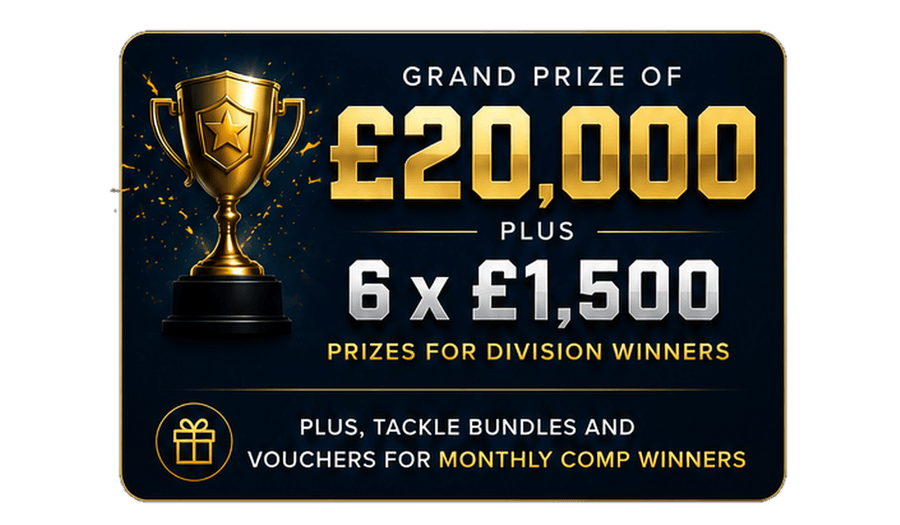
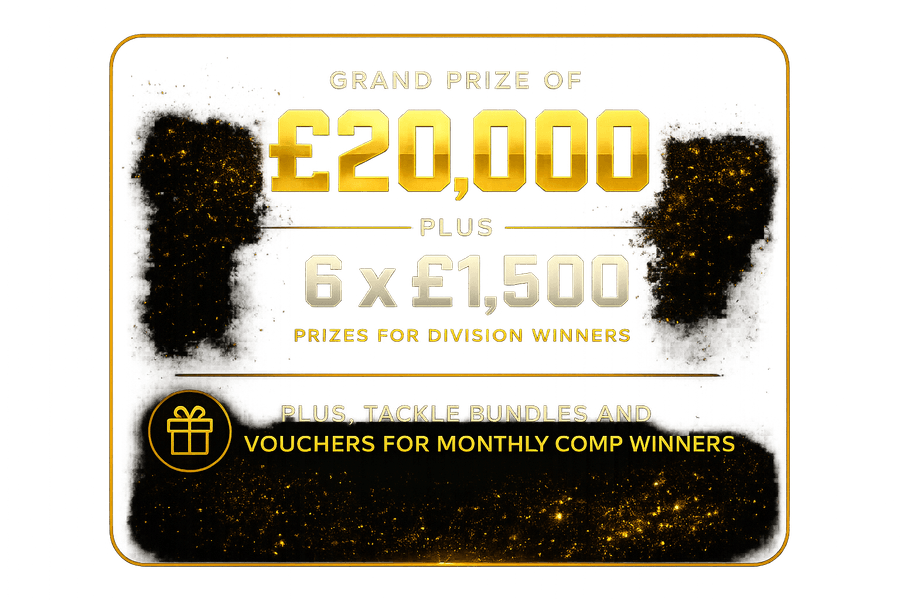
Swap the welcome screen's prize box for the gold rework
"prize box 2" replaces 02_prize_box.png — same copy, gold treatment to
match the Carp Leagues mark.

PRIZE_BOX_RATIO moves with it: the new art is 3:2 where the original was
12:7, so leaving the constant alone would have stretched the box by 14% and
squashed the lettering. It's a wrapper-level ratio because on
react-native-web an Image takes an inline height from its intrinsic pixel
size, which overrides aspectRatio on the image itself.

Source art committed alongside, so the prep script can regenerate it from a
clean clone. Re-running prepare-login-assets.mjs left every other login
asset byte-identical.

Verified signed-out at 375x812: renders 327x218 at exactly 1.500 with no
distortion, page still fits with zero overflow, both buttons on screen.

At 375x667 the box is 27px taller than before and Register now sits below
the fold — but the screen's ScrollView has 208px of travel and Register
comes fully into view when scrolled, so it stays reachable. It was already
below the fold at that height before this change.

diff --git a/mobile/src/app/(auth)/welcome.tsx b/mobile/src/app/(auth)/welcome.tsx
@@ -25,7 +25,7 @@ import { Colors, MaxContentWidth, Radii, Spacing } from '@/constants/theme';
 // The Carp Leagues shield, prepared square (see
 // scripts/prepare-carp-leagues-logo.mjs).
 const LOGO_RATIO = 1; // 512x512
-const PRIZE_BOX_RATIO = 2400 / 1400;
+const PRIZE_BOX_RATIO = 900 / 600;
 const BUTTON_RATIO = 2400 / 600;
 const BOTTOM_RAIL_RATIO = 2400 / 900;
 // Shared with the tab template's strapline (see components/tag-line.tsx) —
